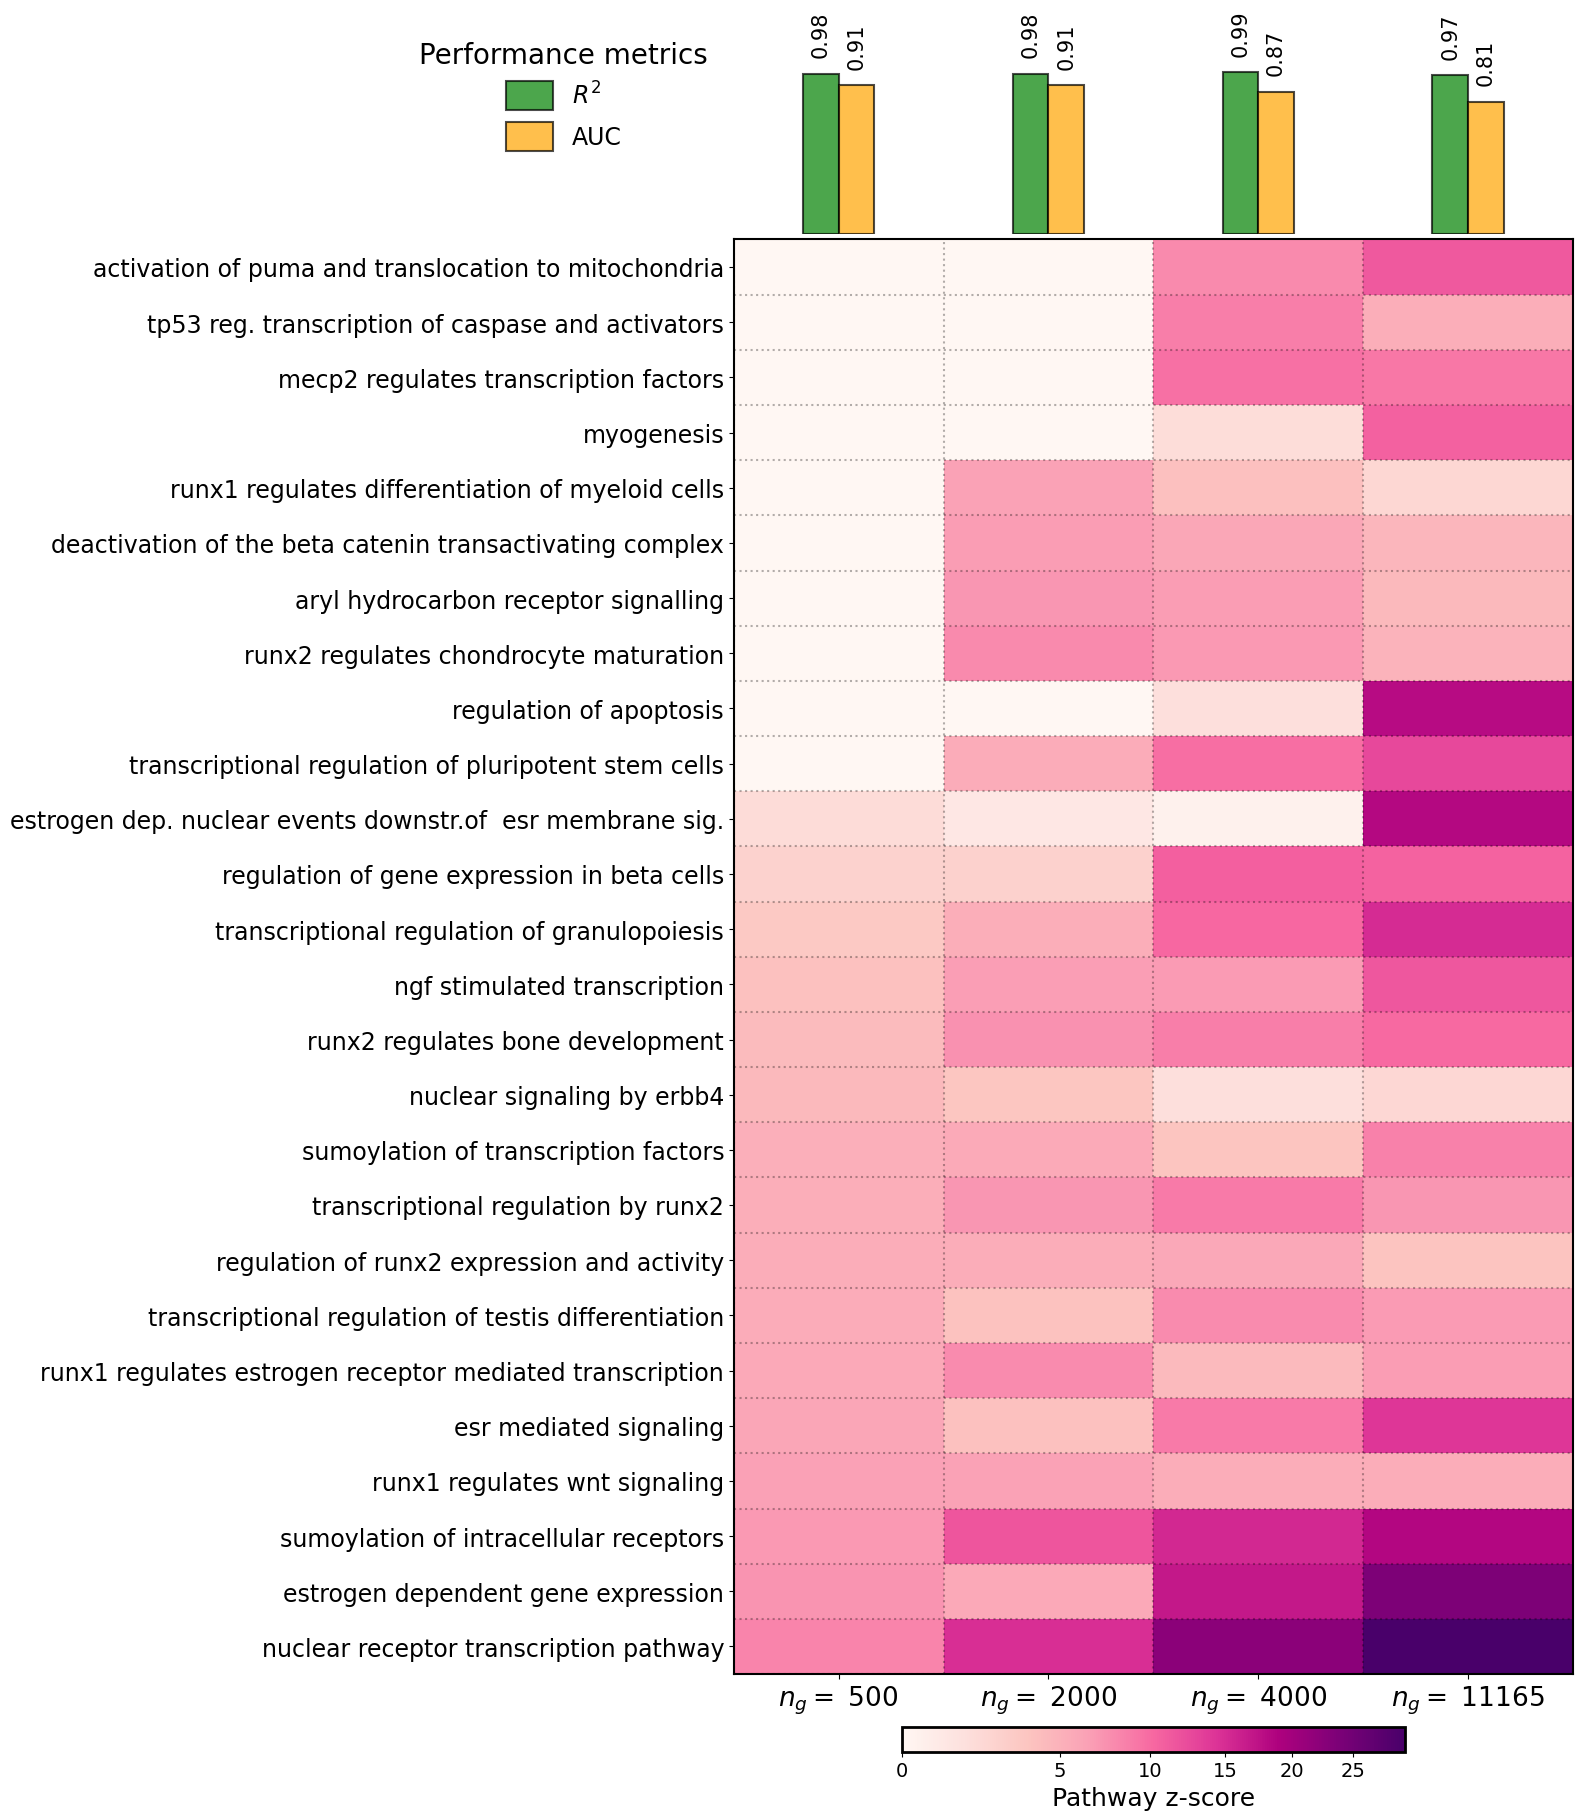
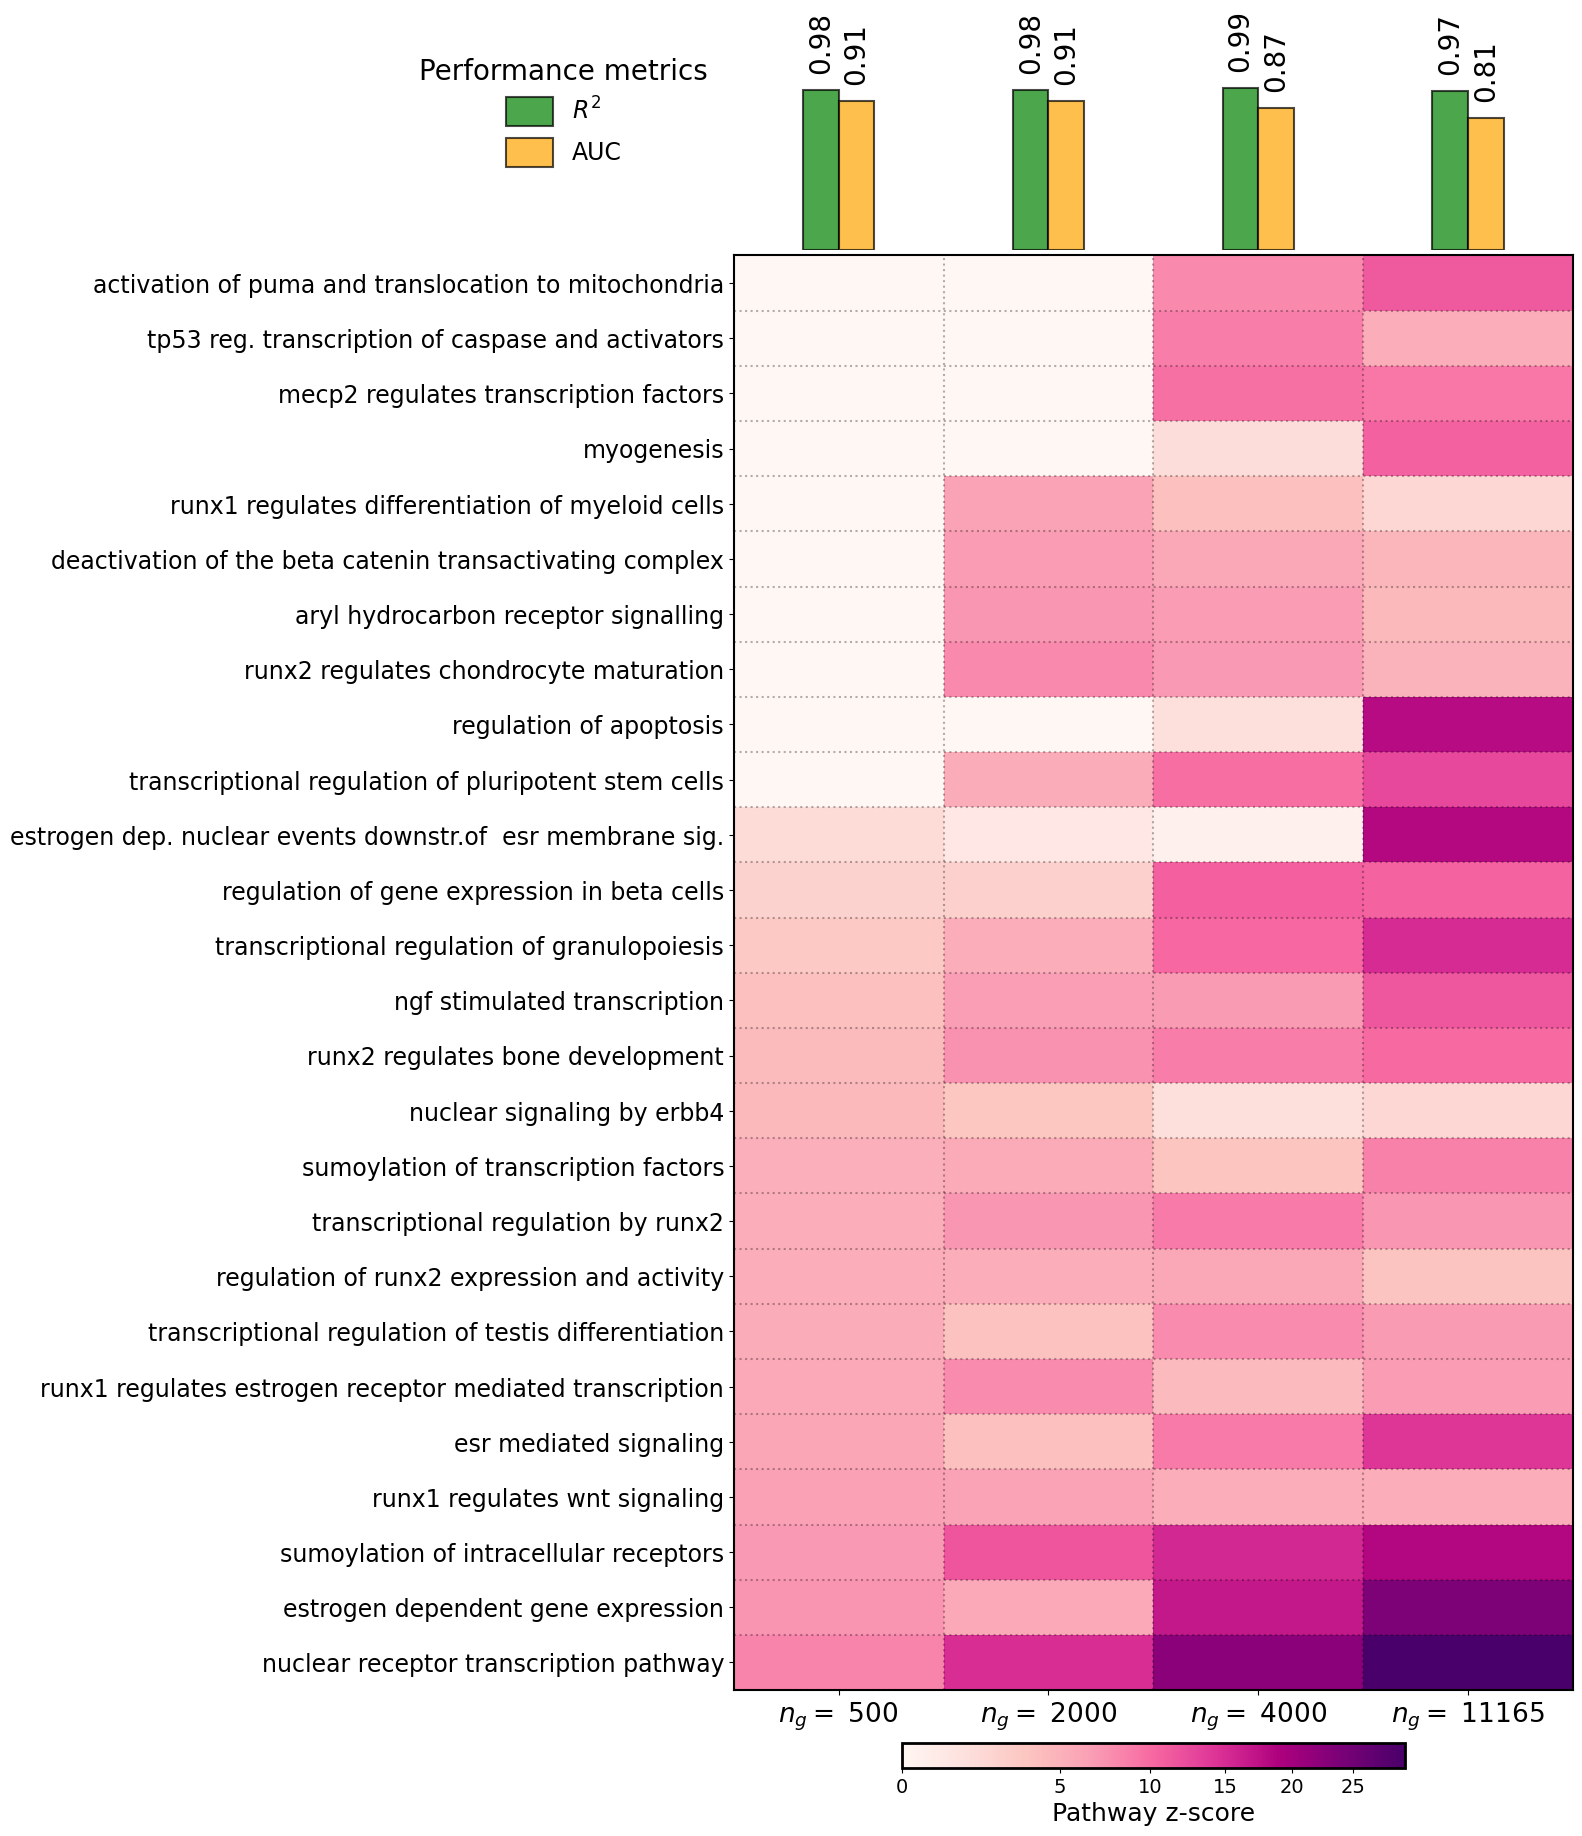
perf metric label update

diff --git a/ode_net/code/fig_breast_cancer_permtest.py b/ode_net/code/fig_breast_cancer_permtest.py
@@ -147,7 +147,7 @@ if __name__ == "__main__":
                 this_text = "${:,.2f}".format(this_val)
                 this_height = this_val/cost_shrinker
             ax1.text(this_idx + 0.5 + width*this_delta, this_height + 0.1 , this_text, 
-                     ha="center", va="bottom", color="black",size = 15, rotation = 90)
+                     ha="center", va="bottom", color="black",size = 20, rotation = 90)
     
     ax.legend(handles = leg_general_info, loc='center left', prop={'size': tick_lab_size+3}, 
                         ncol = 1,  handleheight=1.5, frameon = False, bbox_to_anchor = (-0.4,1.1),
